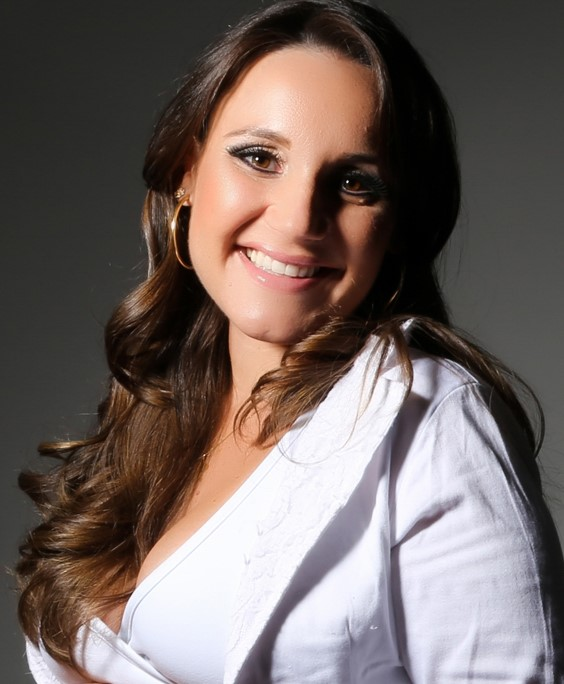
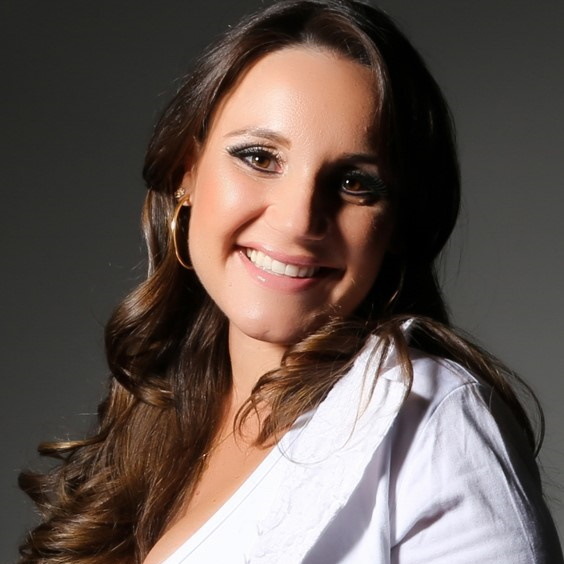
Equipe aumentada

diff --git a/src/pages/Templates/data/equipe.ts b/src/pages/Templates/data/equipe.ts
@@ -1,9 +1,44 @@
 import { IPerfilProps } from '../EquipeColaboradores/components/Perfil';
+import ferreira from '../../../shared/assets/avatars/ferreira.jpg';
+import meza from '../../../shared/assets/avatars/meza.png';
+import ribas from '../../../shared/assets/avatars/ribas.jpg';
+import viniSantos from '../../../shared/assets/avatars/vinicius_santos.jpeg';
+import pauloCosta from '../../../shared/assets/avatars/paulo_costa.jpg';
 import zonta from '../../../shared/assets/avatars/zonta.jpg';
 import tabuti from '../../../shared/assets/avatars/tabuti.jpg';
 import juliana from '../../../shared/assets/avatars/juliana.jpg';
 
 export const equipe: IPerfilProps[] = [
+    {
+        src: ferreira,
+        nome: 'Carlos E. Ferreira',
+        instituicao: 'IME-USP',
+        children: 'Diretor da Regional Brasil'
+    },
+    {
+        src: meza,
+        nome: 'Federico Meza',
+        instituicao: 'Universidad de Talca, Chile',
+        children: 'Diretor da América Latina'
+    },
+    {
+        src: ribas,
+        nome: 'Bruno César Ribas',
+        instituicao: 'UNB',
+        children: 'Diretor de Sistemas'
+    },
+    {
+        src: viniSantos,
+        nome: 'Vinicius Fernandes dos Santos',
+        instituicao: 'UFMG',
+        children: 'Juiz chefe do Brasil'
+    },
+    {
+        src: pauloCosta,
+        nome: 'Paulo Cezar Pereira Costa',
+        instituicao: 'UFG',
+        children: 'Juiz chefe da América Latina'
+    },
     {
         src: zonta,
         nome: 'Tiago Zonta',
@@ -23,9 +58,4 @@ export const equipe: IPerfilProps[] = [
         instituicao: 'ZIT Consultoria',
         children: 'Evento e integração'
     }
-    // {},
-    // {},
-    // {},
-    // {},
-    // {}
 ];

diff --git a/src/pages/Templates/EquipeColaboradores/EquipeColaboradoresTemplate.tsx b/src/pages/Templates/EquipeColaboradores/EquipeColaboradoresTemplate.tsx
@@ -8,6 +8,13 @@ import { equipe } from '../data/equipe';
 export const EquipeColaboradoresTemplate = () => {
     const theme = useTheme();
     const mdDown = useMediaQuery(theme.breakpoints.down('md'));
+
+    const limites = {
+        // primeira coluna fica sempre com mais um no caso de tamanho ímpar
+        fimDaColuna1: Math.ceil(equipe.length / 2),
+        fimDaColuna2: equipe.length
+    };
+
     return (
         <Box bgcolor={'tertiary.main'} p={{ xs: 4, md: 8 }}>
             <CTitle
@@ -22,14 +29,16 @@ export const EquipeColaboradoresTemplate = () => {
             </CTitle>
             <Grid container direction={{ xs: 'column', md: 'row' }} spacing={4}>
                 <Grid container item xs={6} direction={'column'} spacing={4}>
-                    {equipe.slice(0, 4).map((perfil) => (
+                    {equipe.slice(0, limites.fimDaColuna1).map((perfil) => (
                         <Perfil key={perfil.nome} {...perfil} />
                     ))}
                 </Grid>
                 <Grid container item xs={6} direction={'column'} spacing={4}>
-                    {equipe.slice(4, 8).map((perfil) => (
-                        <Perfil key={perfil.nome} {...perfil} />
-                    ))}
+                    {equipe
+                        .slice(limites.fimDaColuna1, limites.fimDaColuna2)
+                        .map((perfil) => (
+                            <Perfil key={perfil.nome} {...perfil} />
+                        ))}
                 </Grid>
             </Grid>
         </Box>

diff --git a/src/pages/Templates/EquipeColaboradores/components/Perfil.tsx b/src/pages/Templates/EquipeColaboradores/components/Perfil.tsx
@@ -31,8 +31,7 @@ export const Perfil: React.FC<IPerfilProps & GridProps> = ({
                     alt={nome}
                     sx={{
                         width: '100%',
-                        height: '100%',
-                        objectFit: 'cover'
+                        height: '100%'
                     }}
                 />
             </Grid>
